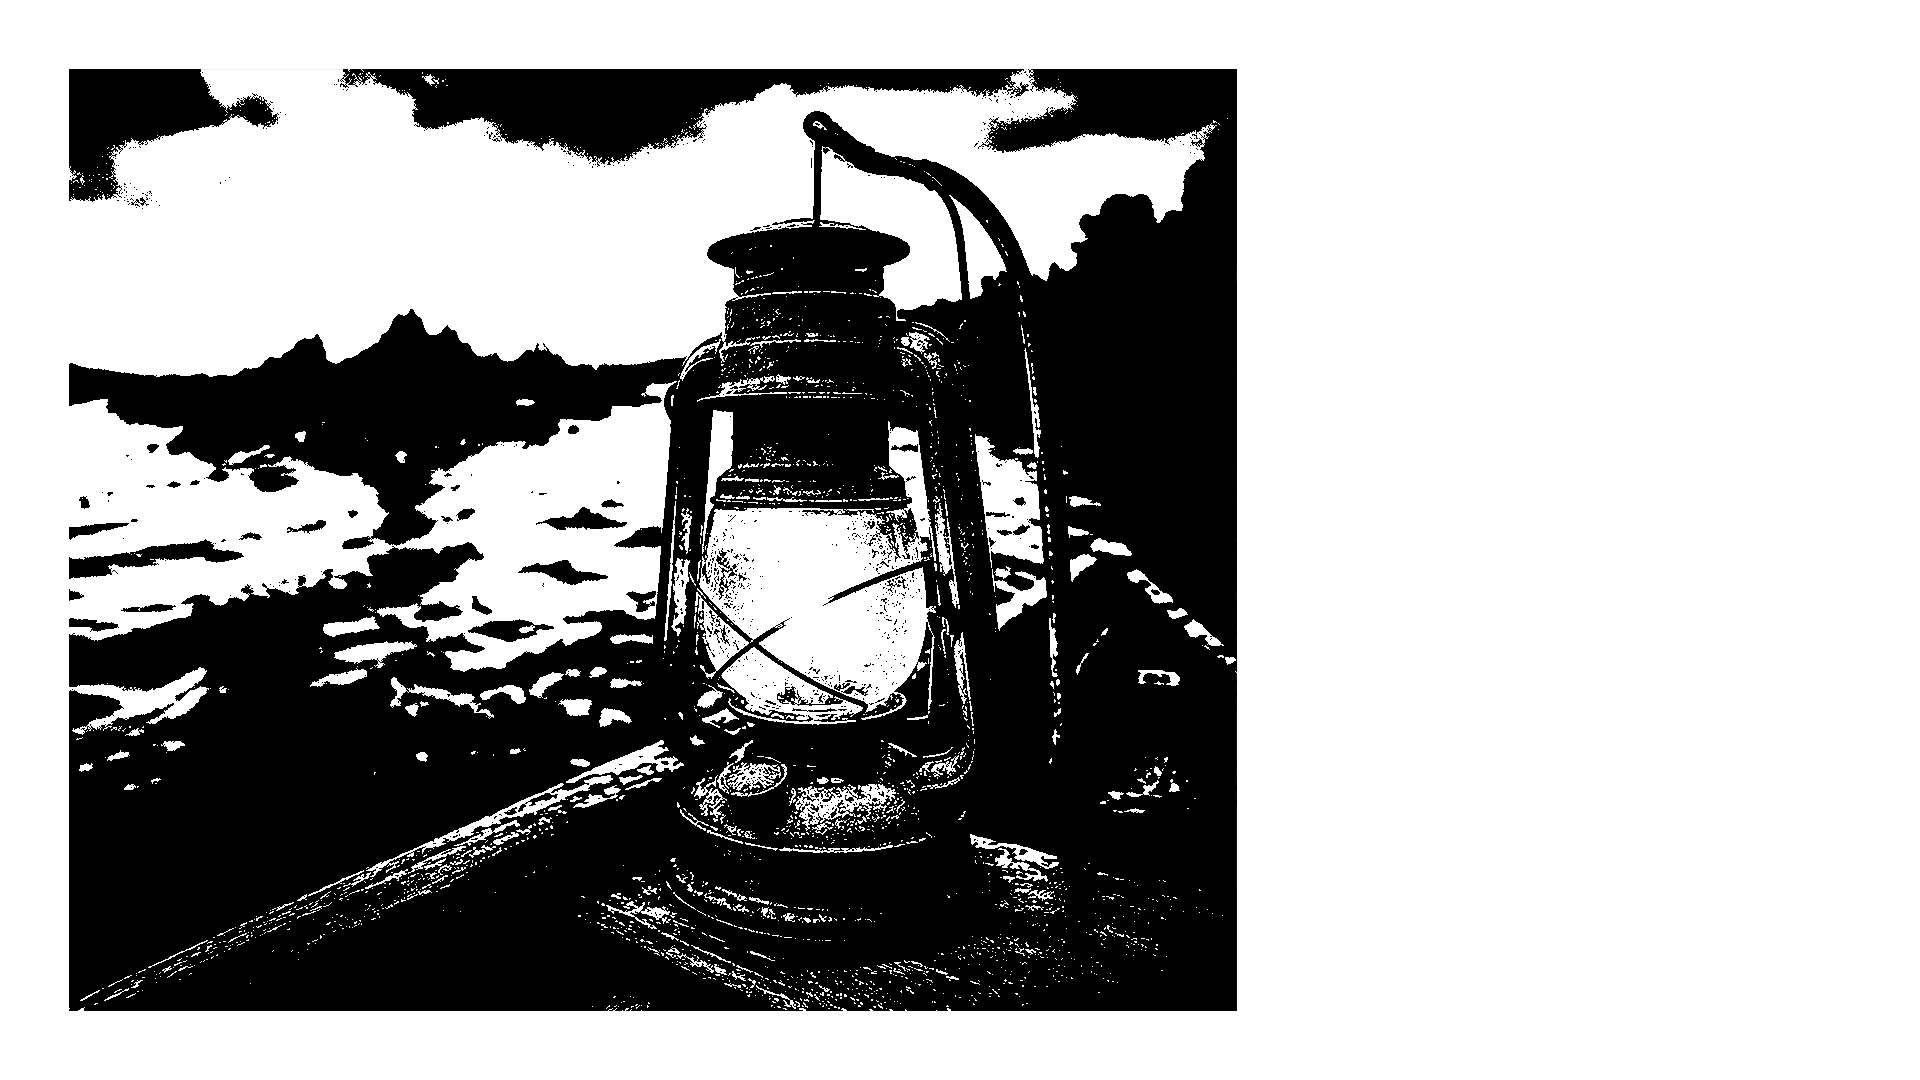
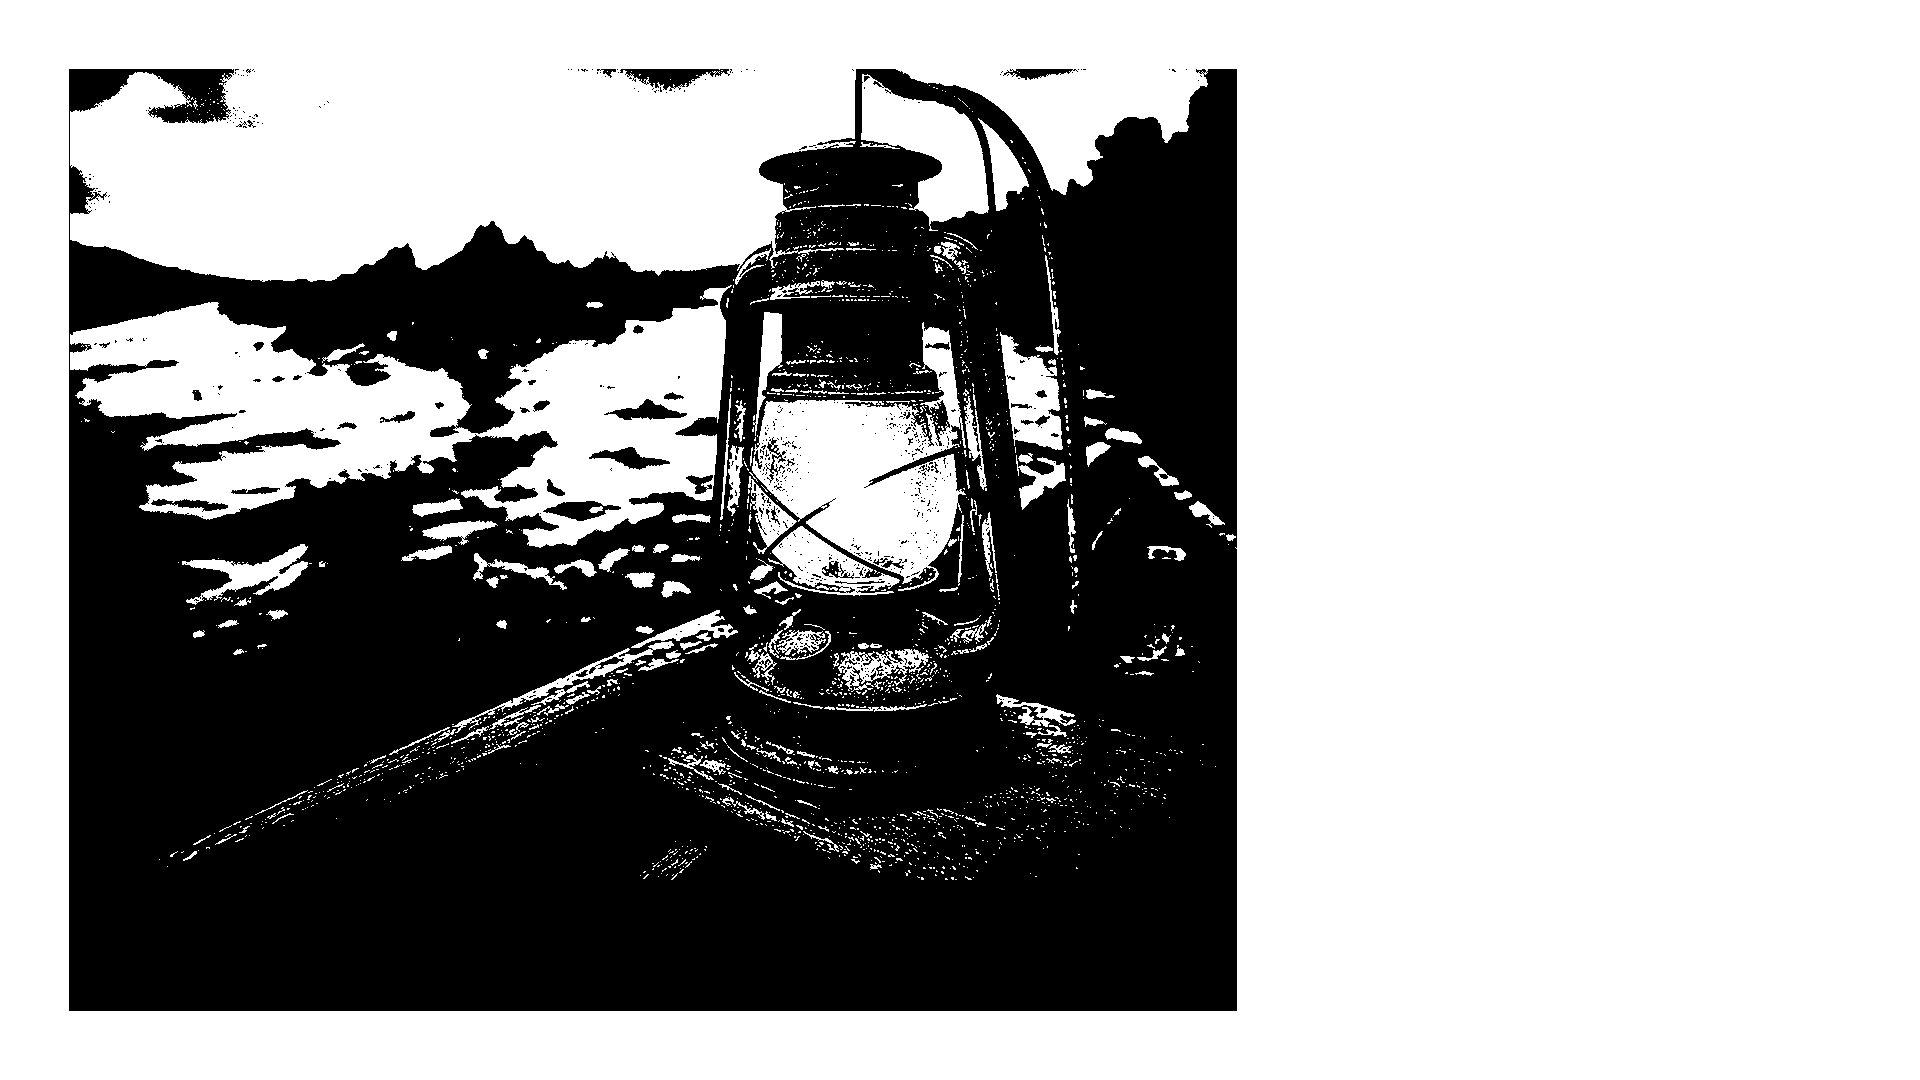
fix(playtest): fix layout overlap, coward role restriction in round 3, R3 tie-breaker logic, R6 narrative wording, GM progress count visibility, and state leakages

diff --git a/server.js b/server.js
@@ -264,6 +264,13 @@ wss.on('connection', (ws) => {
           if (!clientName || clientName === '하영') return;
           const player = state.players[clientName];
           if (!player || !player.alive) return;
+          
+          // Coward cannot select B in Round 3
+          if (state.currentRound === 3 && player.role && player.role.realRole === '겁쟁이' && data.choice === 'B') {
+            console.log(`Blocked Coward player ${clientName} from voting for B in Round 3.`);
+            return;
+          }
+
           player.choice = data.choice;
           console.log(`Player ${clientName} voted: ${data.choice}`);
           broadcastState();
@@ -461,7 +468,7 @@ function processVotes() {
       // 1. 모두가 '아무도 버리지 않는다'를 선택한 경우
       state.score_arrival += 1;
       state.winningOption = 'none';
-      state.roundResultText = "아무도 버리고 갈 수 없습니다. 천운으로, 구명보트는 9명을 태우고도 가라앉지 않을듯 합니다.\n(모두 생존)";
+      state.roundResultText = "아무도 버리고 갈 수 없습니다. 천운으로, 구명보트는 모두를 태우고도 가라앉지 않을듯 합니다.\n(모두 생존)";
     } else {
       // Check if everyone got exactly 1 vote
       let everyoneGotOne = true;
@@ -475,7 +482,7 @@ function processVotes() {
         // 2. 모두가 1표씩 얻은 경우
         state.score_mountain += 1;
         state.winningOption = 'none';
-        state.roundResultText = "아무도 버리고 갈 수 없습니다. 천운으로, 구명보트는 9명을 태우고도 가라앉지 않을듯 합니다.\n(모두 생존)";
+        state.roundResultText = "아무도 버리고 갈 수 없습니다. 천운으로, 구명보트는 모두를 태우고도 가라앉지 않을듯 합니다.\n(모두 생존)";
       } else {
         // 3. 0표를 받은 사람이 있음
         // Anyone who got >= 1 vote is abandoned (dies). The 0-vote players survive.
@@ -528,25 +535,31 @@ function processVotes() {
   }
 
   // R1, R2, R3, R5: Standard majority vote with random tie-breaker
-  let options = ['A', 'B'];
-  if (round === 1 || round === 2 || round === 5) {
-    options.push('C');
-  }
-
-  let maxVotes = -1;
-  let winningOptions = [];
-
-  options.forEach(opt => {
-    if (votes[opt] > maxVotes) {
-      maxVotes = votes[opt];
-      winningOptions = [opt];
-    } else if (votes[opt] === maxVotes) {
-      winningOptions.push(opt);
+  let winningOption;
+  if (round === 3) {
+    // Override: A (Blue Line) only wins if votes are strictly greater than B (Red Line).
+    winningOption = (votes['A'] > votes['B']) ? 'A' : 'B';
+  } else {
+    let options = ['A', 'B'];
+    if (round === 1 || round === 2 || round === 5) {
+      options.push('C');
     }
-  });
 
-  // Tie breaker (randomly choose between the tied options)
-  const winningOption = winningOptions[Math.floor(Math.random() * winningOptions.length)];
+    let maxVotes = -1;
+    let winningOptions = [];
+
+    options.forEach(opt => {
+      if (votes[opt] > maxVotes) {
+        maxVotes = votes[opt];
+        winningOptions = [opt];
+      } else if (votes[opt] === maxVotes) {
+        winningOptions.push(opt);
+      }
+    });
+
+    // Tie breaker (randomly choose between the tied options)
+    winningOption = winningOptions[Math.floor(Math.random() * winningOptions.length)];
+  }
   state.winningOption = winningOption;
   console.log(`Round ${round} voting results:`, votes, `Winner: ${winningOption}`);
 

diff --git a/public/client.js b/public/client.js
@@ -53,7 +53,7 @@ const roundData = {
   },
   6: {
     title: "라운드 6: 침몰하는 구명보트",
-    narrative: "배가 기울기 시작합니다. 구명보트에는 7명밖에 탈 수 없어보입니다. 누구를 버리고 가야할까요?"
+    narrative: "배가 기울기 시작합니다. 그런데 구명보트가 작아 모두가 탈 수 없을 것 같군요...누구를 버리고 가야할까요?"
   }
 };
 
@@ -354,6 +354,14 @@ function renderGame() {
   const phase = gameState.phase;
   const subphase = gameState.roundSubphase;
   
+  // Reset nudge tip to prevent round-to-round leakages
+  const nudgeTip = document.getElementById('nudge-tip-container');
+  if (nudgeTip) {
+    nudgeTip.classList.add('hidden');
+    nudgeTip.removeAttribute('style');
+    nudgeTip.innerHTML = "";
+  }
+  
   // Set up background images based on round
   const bgImg = document.getElementById('bg-layer');
   const narrativeImg = document.getElementById('narrative-image');
@@ -473,8 +481,11 @@ function renderGame() {
     deathOverlay.classList.remove('hidden');
   }
 
-  // Show boat/paddles in rounds 1-5
-  if ((phase === 'round' || phase === 'round_result') && round >= 1 && round <= 5) {
+  // Show boat/paddles in rounds 1-6, but hide it in R6 voting subphase
+  const showBoatPaddles = (phase === 'round' || phase === 'round_result') && 
+                          (round >= 1 && round <= 6) && 
+                          !(round === 6 && subphase === 'voting');
+  if (showBoatPaddles) {
     boat.classList.remove('hidden');
     paddleL.classList.remove('hidden');
     paddleR.classList.remove('hidden');
@@ -516,7 +527,7 @@ function renderGame() {
             textLeft.classList.add('nudged');
             nudgeTip.innerHTML = `<strong>★ 미션 팁:</strong> ${escapeHtml(activeNudge.text)}`;
             nudgeTip.style.left = "80px";
-            nudgeTip.style.top = "760px";
+            nudgeTip.style.top = (660 + textLeft.offsetHeight + 10) + "px";
             nudgeTip.style.width = "520px";
             nudgeTip.classList.remove('hidden');
           } else {
@@ -536,7 +547,7 @@ function renderGame() {
             textCenter.classList.add('nudged');
             nudgeTip.innerHTML = `<strong>★ 미션 팁:</strong> ${escapeHtml(activeNudge.text)}`;
             nudgeTip.style.left = "710px";
-            nudgeTip.style.top = "660px";
+            nudgeTip.style.top = (570 + textCenter.offsetHeight + 10) + "px";
             nudgeTip.style.width = "500px";
             nudgeTip.classList.remove('hidden');
           } else {
@@ -560,7 +571,7 @@ function renderGame() {
             textRight.classList.add('nudged');
             nudgeTip.innerHTML = `<strong>★ 미션 팁:</strong> ${escapeHtml(activeNudge.text)}`;
             nudgeTip.style.left = "1320px";
-            nudgeTip.style.top = "760px";
+            nudgeTip.style.top = (660 + textRight.offsetHeight + 10) + "px";
             nudgeTip.style.width = "520px";
             nudgeTip.classList.remove('hidden');
           } else {
@@ -594,6 +605,16 @@ function renderGame() {
     // Tally values
     document.getElementById('gm-play-voted-count').textContent = gameState.votedCount;
     document.getElementById('gm-play-alive-count').textContent = gameState.alivePlayersCount;
+    
+    // Toggle tally text visibility (Only visible during R1-R6, i.e. phase === 'round')
+    const tallyText = document.getElementById('gm-vote-tally-text');
+    if (tallyText) {
+      if (phase === 'round') {
+        tallyText.classList.remove('hidden');
+      } else {
+        tallyText.classList.add('hidden');
+      }
+    }
     
     const progressPercent = gameState.alivePlayersCount > 0 ? (gameState.votedCount / gameState.alivePlayersCount) * 100 : 0;
     document.getElementById('vote-progress').style.width = `${progressPercent}%`;
@@ -682,9 +703,24 @@ function setupChoiceEvents(pos, layerId, choiceId) {
   const newHotspot = hotspot.cloneNode(true);
   hotspot.parentNode.replaceChild(newHotspot, hotspot);
   
+  // Reset styles for general state
+  newTextContainer.style.opacity = '';
+  newTextContainer.style.pointerEvents = '';
+  newHotspot.style.pointerEvents = '';
+
   if (isGM) {
     newTextContainer.style.pointerEvents = 'none';
     newHotspot.style.pointerEvents = 'none';
+    newTextContainer.classList.remove('selected');
+    layerImg.classList.remove('glow-white');
+    return;
+  }
+
+  // Coward cannot select B ('오른쪽 노') in Round 3
+  if (me && me.role && me.role.realRole === '겁쟁이' && gameState.currentRound === 3 && choiceId === 'B') {
+    newTextContainer.style.pointerEvents = 'none';
+    newHotspot.style.pointerEvents = 'none';
+    newTextContainer.style.opacity = '0.3';
     newTextContainer.classList.remove('selected');
     layerImg.classList.remove('glow-white');
     return;

diff --git a/public/index.html b/public/index.html
@@ -157,7 +157,7 @@
         <!-- DYNAMIC CONTENT: GM Screen Overlays (Next buttons, vote counts) -->
         <div id="gm-game-controls" class="gm-game-controls hidden">
           <div class="gm-vote-tally">
-            <p class="hidden">선택 완료 현황: <span id="gm-play-voted-count">0</span> / <span id="gm-play-alive-count">0</span> 명</p>
+            <p id="gm-vote-tally-text" class="hidden">선택 완료 현황: <span id="gm-play-voted-count">0</span> / <span id="gm-play-alive-count">0</span> 명</p>
             <div class="vote-progress-bar-container">
               <div class="vote-progress-bar" id="vote-progress"></div>
             </div>